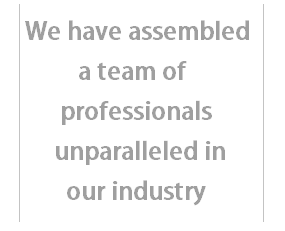
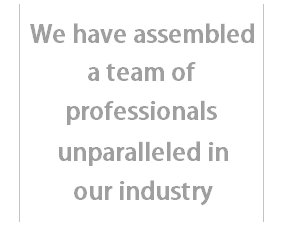
added follow links to index. Applied css to nicoles bio and venice

diff --git a/index.html b/index.html
@@ -55,9 +55,39 @@
 				</div>
 				
 			<div id="description">
-			<p id="companyDescriptionTop">Fitness Quest Physical Therapy offers a unique and indavidualized experience. We have assembled a team of professionals unparalled in our industry, who pride themselves on setting the standard for quality patient care. Our therapists bring over 50 years of combined experience to help treat our patients. Fitness Quest Therapy is comming is committed to seeing their patients through to a life of quality restored. Our staff of highly trained professionals use a comination of therapeutic exercises and modalities. We currently have 8 convenient locations spread throughout Sarasota and charolette counties in beautiful state of the art facilities.	We provide not onyl physical therapy but, Occupational, Massage and Hand Therapies. We treat a variety of orthopedic and</p>
-			<p id="companyDescriptionBottom">neurological conditions including but not limited too: Arthritis, Post Surgical Rehab, Back Pain, Balance Problems, Auto Injury, Sports Injuries, Fractures, Tennis/Golfer's Elbow, Fibromayalgia, Carpal Tunnel, Joint Replacement, ACL's and Fractures. Fitness Quest, Quality plus Convenience, Let us help you regain your life!</p><hr id="line1">
+				<p id="companyDescriptionTop">Fitness Quest Physical Therapy offers a unique and indavidualized experience. We have assembled a team of professionals unparalled in our industry, who pride themselves on setting the standard for quality patient care. Our therapists bring over 50 years of combined experience to help treat our patients. Fitness Quest Therapy is comming is committed to seeing their patients through to a life of quality restored. Our staff of highly trained professionals use a comination of therapeutic exercises and modalities. We currently have 8 convenient locations spread throughout Sarasota and</p>
+				<p id="companyDescriptionBottom">Charolette counties in beautiful state of the art facilities.	We provide not onyl physical therapy but, Occupational, Massage and Hand Therapies. We treat a variety of orthopedic and neurological conditions including but not limited too: Arthritis, Post Surgical Rehab, Back Pain, Balance Problems, Auto Injury, Sports Injuries, Fractures, Tennis/Golfer's Elbow, Fibromayalgia, Carpal Tunnel, Joint Replacement, ACL's and Fractures. Fitness Quest, Quality plus Convenience, Let us help you regain your life!</p>
 			</div>
+			
+			<div id="locationLinks">
+				<h2 id="linkHeader">Seven Coastal Southwest Florida Locations</h2>
+				<table class="locationLinkTable">
+					<tr>
+						<td align="center"><a href="location_venice.html">Port Charlotte</a></td>
+						<td align="center"><a href="location_venice.html">Sarasota</a></td>
+						<td align="center"><a href="location_venice.html">North Port/Murdock</a></td>
+						<td align="center"><a href="location_venice.html">Venice Island</a></td>
+					</tr>
+				</table>
+				<table class="locationLinkTable">
+					<tr>
+						<td align="center"><a href="location_venice.html">Boca Grande Island</a></td>
+						<td align="center"><a href="location_venice.html">Punta Gorda</a></td>
+						<td align="center"><a href="location_venice.html">Sarasota</a><br>(Kobernick House/Anchin)</td>
+					</tr>
+				</table>		
+			</div><hr id="line1">
+			
+			<div id="followUs">
+				<h2 id="followTitle" class="header_text">Follow Us</h2>
+				<table id="followTable">
+					<tr>
+						<td align="center"><a href="www.facebook.com"><img src="images/facebookIcon.png"/></a></td>
+						<td align="center"><a href="www.twitter.com"><img src="images/twitterIcon.jpg"/></a></td>
+					</tr>
+				</table>
+			</div>
+			
 		</div>
 	</BODY>
 	

diff --git a/css/stylesheet.css b/css/stylesheet.css
@@ -12,20 +12,36 @@ div#main {
     margin: 0 auto;
     text-align: center;
     width: 830px;
-	height: 800;
+	height: 1315px; 
 	border-radius: 25px;
 	box-shadow: -5px -5px 20px #202020;
 }
 
 .header_text {
 	font-family: Verdana, Times;
-	text-align: right;
 	color: #04234A;
 }
 
-.header_text2 {
+h1#head_text1 {
+	text-align: right;
+}
+
+#head_text2 {
+	text-align: right;
+}
+
+#homeTitle {
 	font-family: Verdana, Times;
 	color: #04234A;
+	position: relative;
+	left: -230px;
+}
+
+#linkHeader {
+	font-family: Verdana, Times;
+	color: #04234A;
+	position: relative;
+	top: 230px;
 }
 
 img.slideshowimg {
@@ -39,7 +55,11 @@ div#slideshow {
 div#Slideshow2 {
 	position: relative;
 	top: 175px;
-	left: 530px
+	left: 530px;
+}
+
+#subtext{
+	border-spacing: 0px;
 }
 
 p#footer {
@@ -56,6 +76,15 @@ p#companyDescriptionTop {
 	left: 15px;
 	top: 200px;
 	width: 525px;
+	line-height:145%;
+	text-indent: 40px;
+}
+
+.locationLinkTable {
+	font-family: Verdana, Times;
+	position: relative;
+	top: 260px;
+	font-weight:bold;
 }
 
 p#companyDescriptionBottom {
@@ -65,6 +94,14 @@ p#companyDescriptionBottom {
 	position: relative;
 	left: 15px;
 	top: 185px;
+	width: 800;
+	line-height:145%
+}
+
+.simpleText {
+	size: 14;
+	font-family: Verdana, Times;
+	font-weight:bold;
 }
 
 table {
@@ -80,5 +117,72 @@ h2#homeTitle {
 
 #line1{
 	position: relative;
-	top: 200px;
+	top: 300px;
+}
+
+#line2{
+	position: relative;
+	top: 20px;
+}
+
+#staffTitle{
+	position: relative;
+	top: 20px;
+}
+
+#staffTable {
+	position: relative;
+	top: 20px;
+}
+
+.staff{
+	size: 14;
+	font-family: Verdana, Times;
+	line-height:130%
+}
+
+#bioSchoolList{
+	position: relative;
+	top: 10px;
+}
+
+.staffText {
+	text-indent: 40px;
+	size: 14;
+	font-family: Verdana, Times;
+	text-align: left;
+	position: relative;
+	left: 40px;
+	top: 10;
+	width: 750;
+	line-height:145%
+}
+
+#staffName {
+	position: relative;
+	left: 110px;
+}
+
+#nicoleBioPic{
+	position: relative;
+	top: 70px;
+	right: 170px;
+}
+
+#followTitle{
+	position: relative;
+	top: 325px;
+}
+
+#followTable{
+	position: relative;
+	top: 315px;
+	left: 315px;
+	width: 200px;
+}
+
+#table2{
+	position: relative;
+	left: 175px;
+	width: 500px;
 }

diff --git a/location_venice.html b/location_venice.html
@@ -24,18 +24,27 @@
 			</div>
 			
 			<hr>
-			<p class="header_text2"> <b><FONT SIZE = '6'>Venice Island </FONT> <br />
-									400 S. Tamiami Trail #210  <br />
-									Venice, FL 34285  <br />
-				</b>
-			</p>
-			<p>
+			<p class="header_text"> <b><FONT SIZE = '6'><br>Venice Island<br></FONT> <br />400 S. Tamiami Trail #210 <br />Venice, FL 34285 <br /></b></p>
+						
+			<img src="images/venice.jpg"/>			
+			<table id="table2" border="0">
+				<tr>				
+					<td class="simpleText" align="center" >Office: (941) 483-3400</td>
+					<td class="simpleText" align="center" >Fax: (941) 483-3422</td>
+				</tr>
+			</table> 
 			
-			<img src="images/venice.jpg"/>
+			<hr id="line2">
 			
-			</p>
-		</div>	
-				
+			<h1 id="staffTitle" class="header_text">Our staff:</h1>
+			
+			<table border="0" id="staffTable">
+				<tr>				
+					<td align="center" width="40px"><a href="NicoleBio.html"><img src="images/Nicole_Urbanowski.jpg"/></a></td>						
+					<td class="simpleText"><a href="NicoleBio.html">Nicole Urbanowski</a></td>
+				</tr>
+			</table> 			
+		</div>					
 	</BODY>
 
 	<FOOTER>
